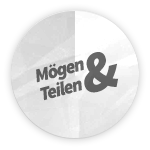
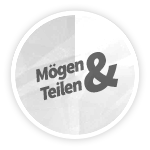
one more knob and updates to the code

Changed region(s): [[0.0533, 0.0533, 0.88, 0.9333], [0.88, 0.64, 0.9067, 0.6933]]

diff --git a/src/jquery.crevo.share.knob.js b/src/jquery.crevo.share.knob.js
@@ -12,6 +12,7 @@
 					 * the view_mode is a switch between different display options.
 					 */
 					'pluginRoot': 'src',
+					'shareknobImage': 'crevo_socialmediaknob_var4_150x150.png',
 					'size': 150,
 					'popupDelay': 200,
 					'services': [
@@ -49,18 +50,18 @@
 					]
 				};
 				
+				// If options exist, lets merge them with our default settings
+				if ( options ) {
+					settings = $.extend( {}, settings, options );
+				}
+				
 				// preload icons to prevent flickering while the appear effect
 				$.each(settings.services, function(key, val) {
 					$('<img/>')[0].src = settings.pluginRoot + '/icons/' + val.id + '.png';
 				});
 
        return this.each(function(key, val){
-       
-				// If options exist, lets merge them with our default settings
-				if ( options ) {
-					settings = $.extend( {}, settings, options );
-				}
-         
+        
          var $this = $(this);
          var data = $this.data('shareknob');
          
@@ -79,7 +80,7 @@
 					
 					// create shareknob markup
 					// @todo	hard coded path
-					var $el = $('<div class="shareknob-dial"><img src="'+settings.pluginRoot+'/crevo_socialmediaknob_150x150.png" /></div>');
+					var $el = $('<div class="shareknob-dial"><img src="'+settings.pluginRoot+'/' + settings.shareknobImage + '" /></div>');
 
 					$el.css({
 						'-webkit-transition': 'all 2s',
@@ -87,6 +88,7 @@
 						'-ms-transition': 'all 2s',
 						'-o-transition': 'all 2s',
 						'transition': 'all 2s',
+						'-webkit-transform': 'scale(.9) rotate(0deg)',
 						'width': '150px',
 						'height': '150px',
 						'overflow': 'hidden',
@@ -96,14 +98,14 @@
 	
 					$el.one("mouseenter", function(ev) {
 						$el.css({
-							'-webkit-transform': 'rotate(450deg)',
+							'-webkit-transform': 'scale(1) rotate(450deg)',
 							'cursor': 'pointer'
 						});
 					});
 					
 					$el.one("mouseleave", function(ev) {
 						$el.css({
-							'-webkit-transform': 'rotate(-0deg)',
+							'-webkit-transform': 'scale(.9) rotate(-0deg)',
 							'cursor': 'pointer'
 						});					
 					});
@@ -165,7 +167,7 @@
 								window.open(service.link);	
 							});
 							
-							$('.shareknob').append($tile);
+							$('body').append($tile);
 							
 							// timeout for delayed appearance
 							var appear = setTimeout(function() {
